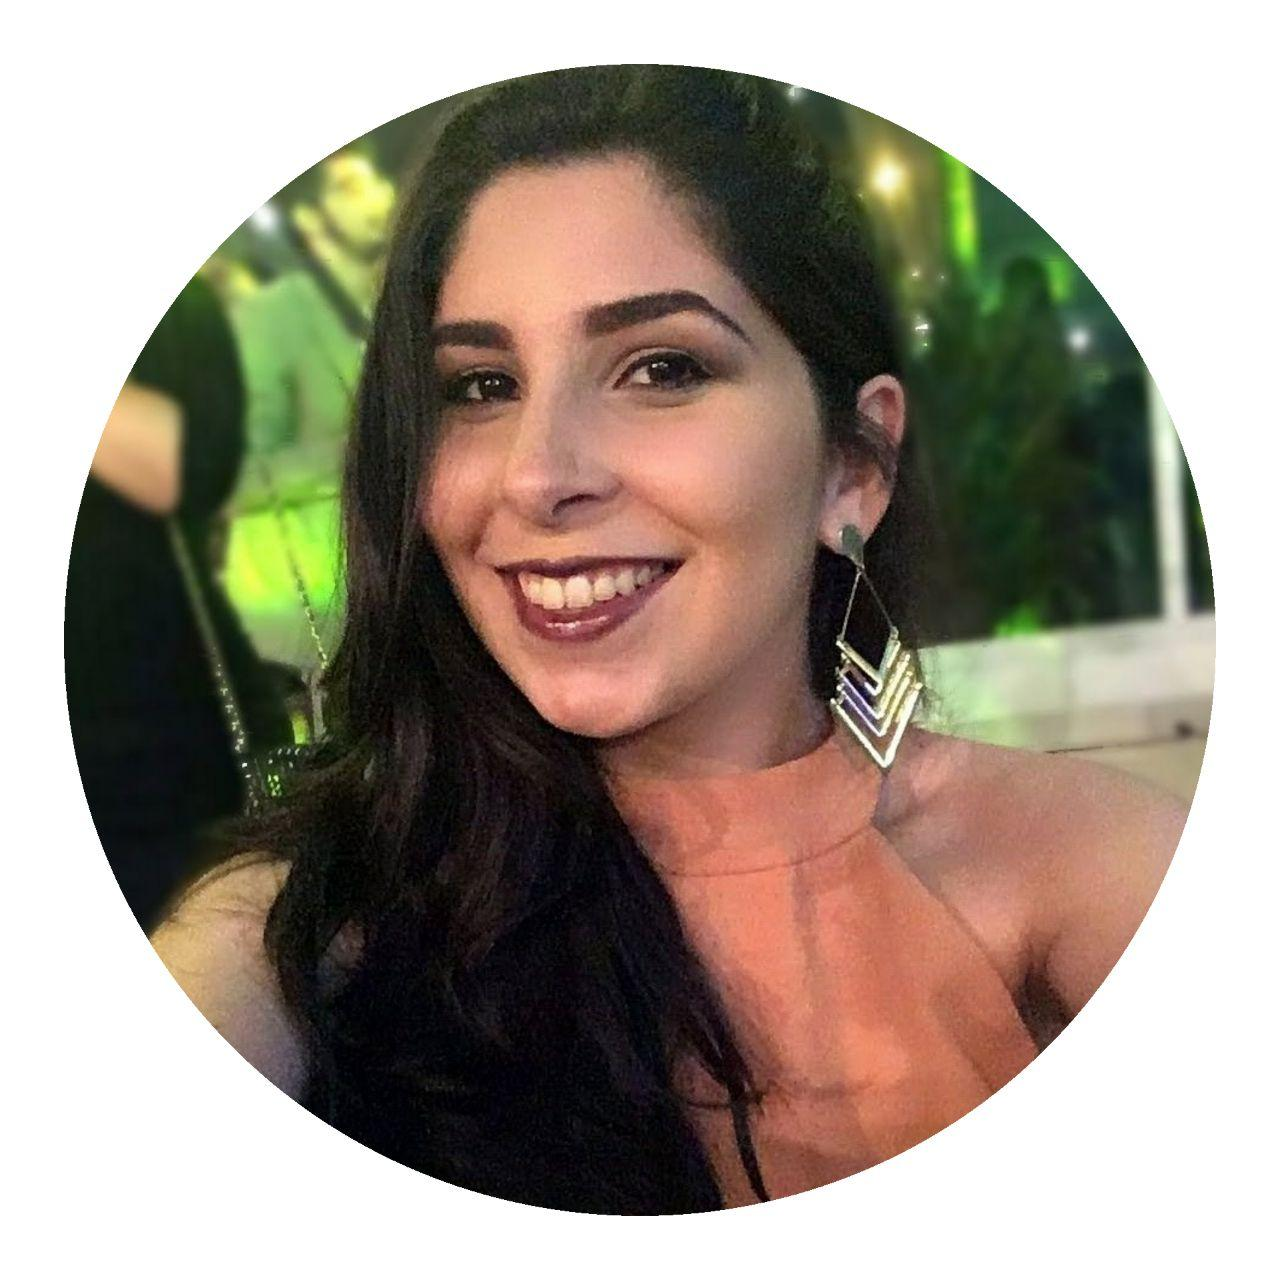
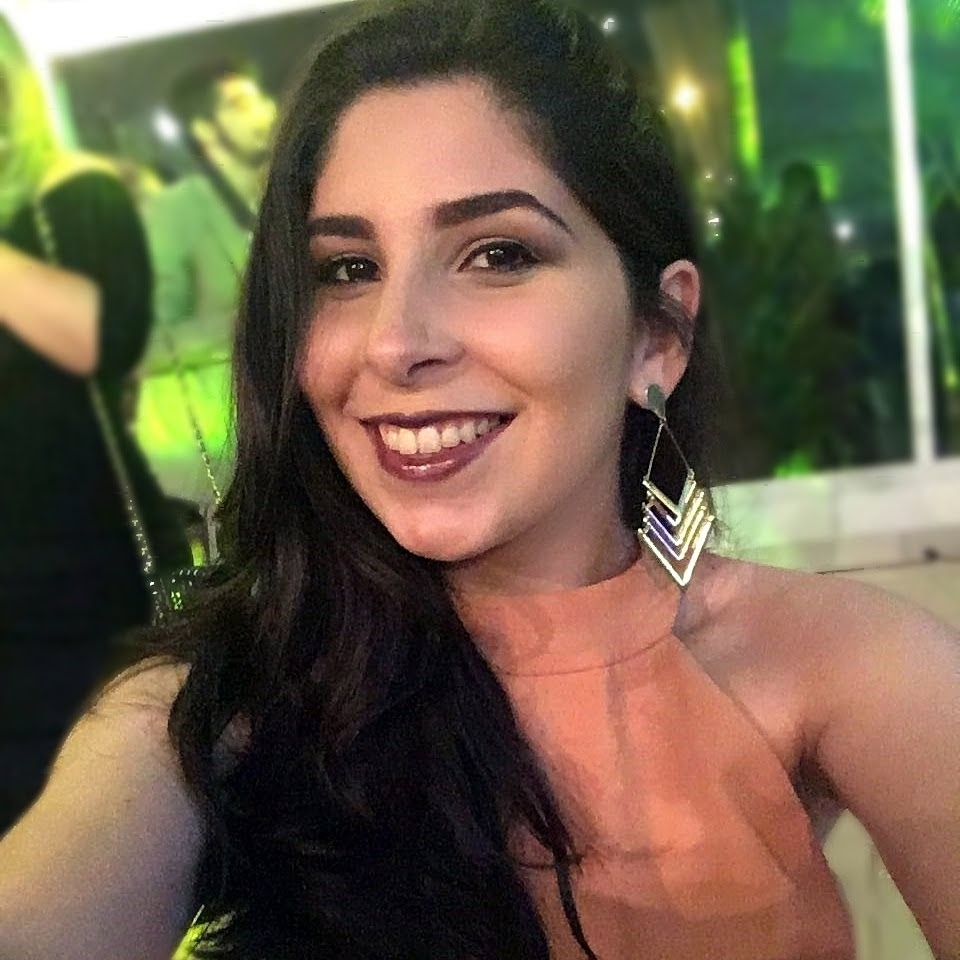
Alteração, arredondamento e adição de sombra na imagem de perfil

diff --git a/css/estilo.css b/css/estilo.css
@@ -1,7 +1,6 @@
 @charset "UTF-8";
 @import url('https://fonts.googleapis.com/css?family=Inter&display=swap');
-
-body{
+body {
     background-image: url(../img/textura.jpg);
 }
 
@@ -18,12 +17,17 @@ h2 {
     padding: 3px;
 }
 
-h2:hover{
+h2:hover {
     background-color: #F2C2CB;
     transition: background-color 0.7s;
 }
 
-ul#wpp{
+figure.perfil img {
+    border-radius: 50%;
+    box-shadow: 3px 3px 5px rgba(0, 0, 0, 0.4);
+}
+
+ul#wpp {
     display: inline-block;
     padding: -20px;
 }
@@ -41,7 +45,7 @@ figure.perfil {
     position: relative;
 }
 
-div#nomefoto h1{
+div#nomefoto h1 {
     font-family: 'Inter', sans-serif;
     font-size: 15pt;
     text-transform: uppercase;
@@ -54,14 +58,13 @@ div#folha {
     margin: 0px auto 10px auto;
     box-shadow: 0px 0px 10px rgba(0, 0, 0, 0.4);
     opacity: 80%;
-
 }
 
-a#site{
+a#site {
     color: black;
     text-decoration: none;
 }
 
-a#site:hover{
+a#site:hover {
     text-decoration: underline;
 }
